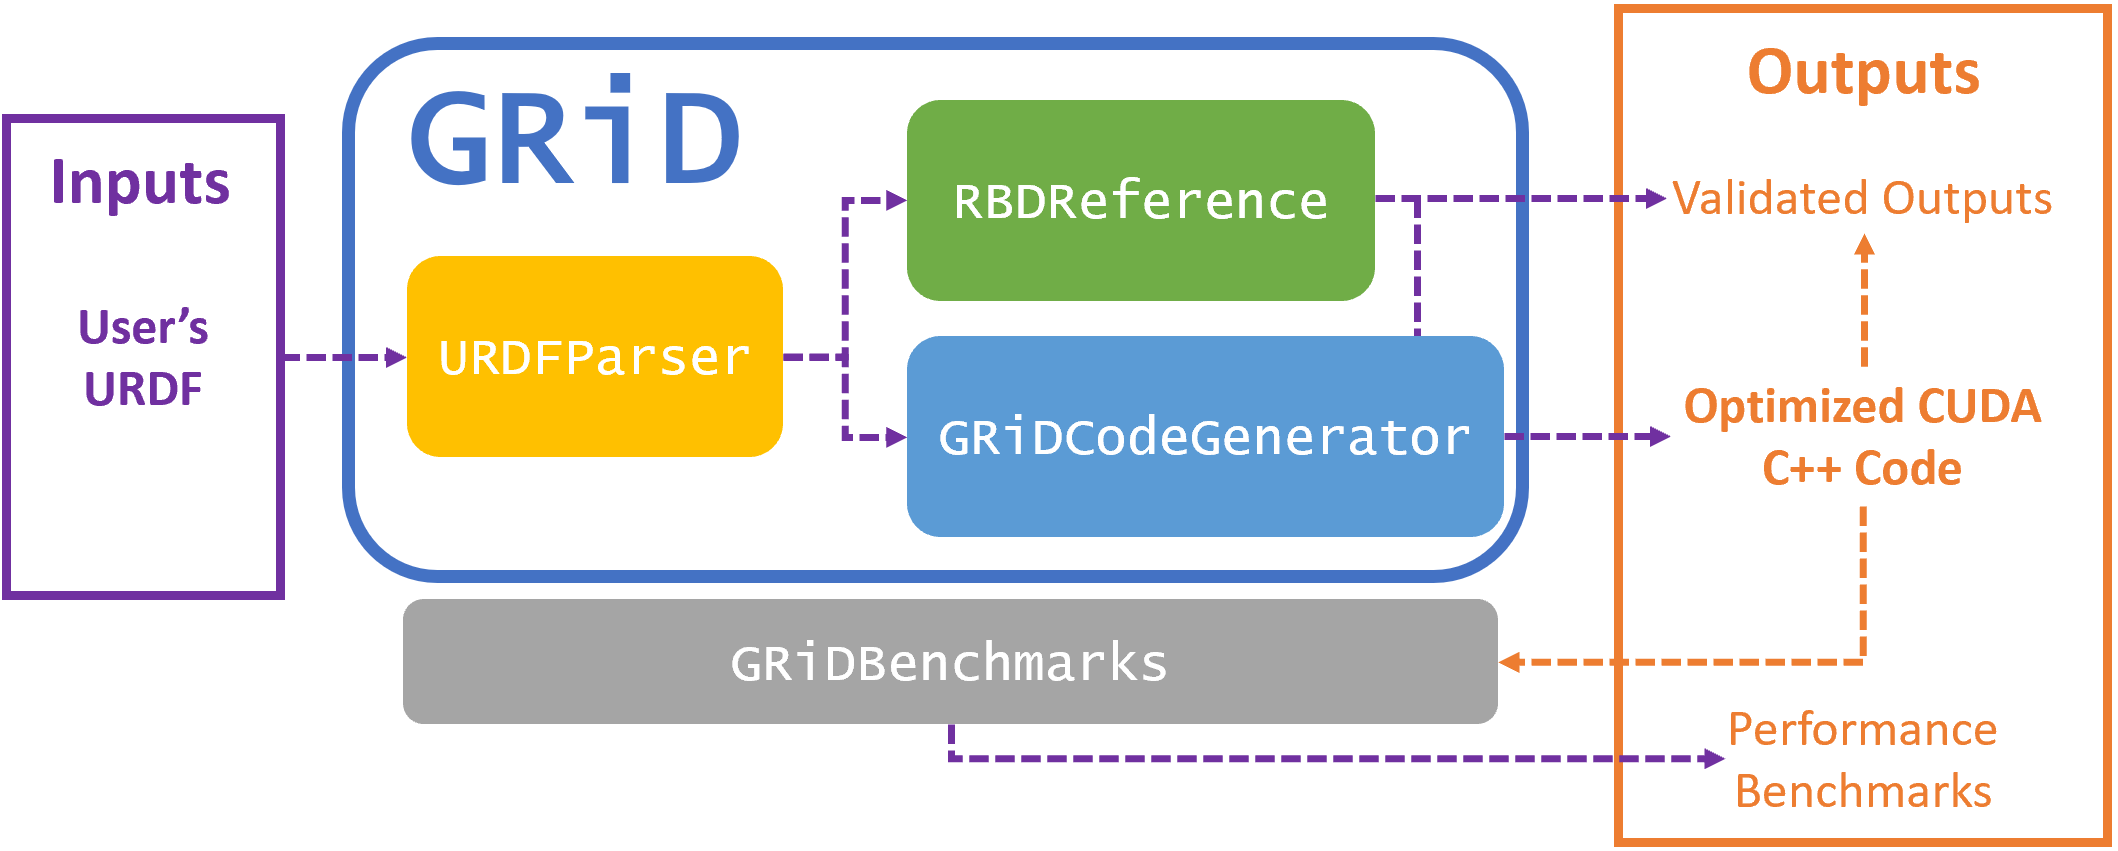
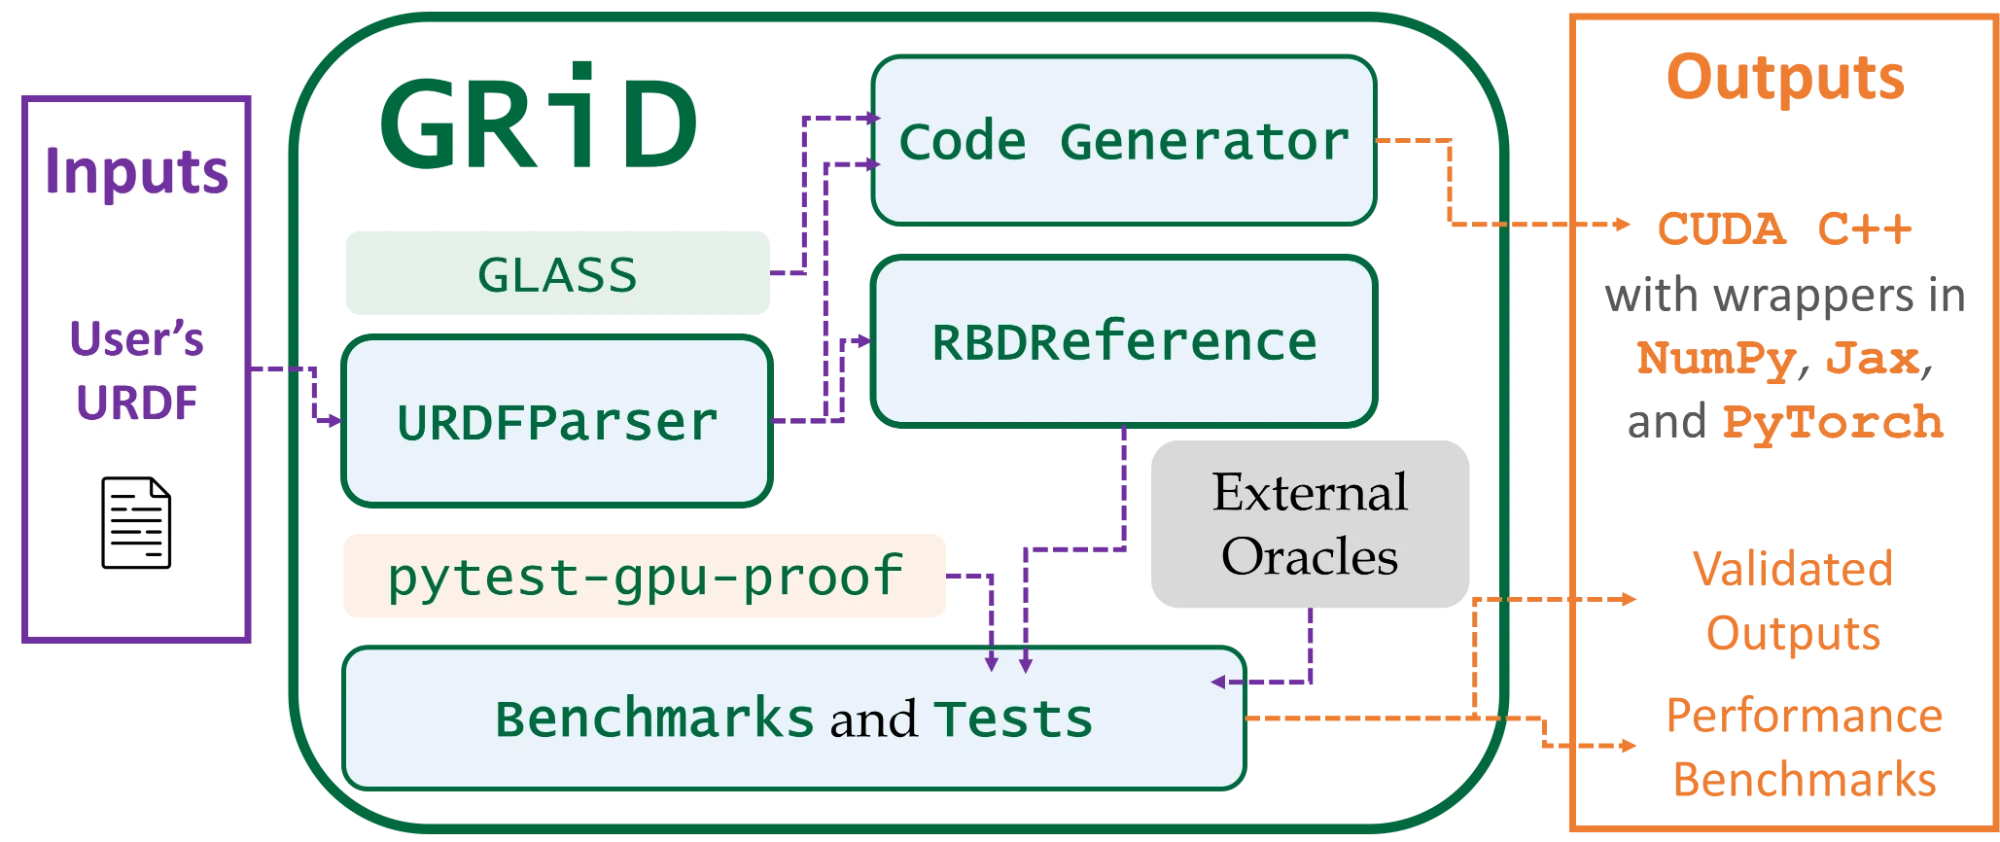
README: new ecosystem diagram at the top; Performance section shows the release speedup and timing figures (old benchmark images removed)

diff --git a/test/benchmarks/plot_benchmarks.py b/test/benchmarks/plot_benchmarks.py
@@ -1,6 +1,6 @@
 #!/usr/bin/env python3
 """Benchmark figures for GRiD competitive results — matplotlib, styled after the
-hand-made Excel figure docs/imgs/benchmark_multi_fd_grad.png.
+hand-made Excel figure (formerly docs/imgs/benchmark_multi_fd_grad.png, removed 2026-09-30).
 
 Two figure types:
 

diff --git a/README.md b/README.md
@@ -8,6 +8,8 @@
 
 A GPU-accelerated library for robot dynamics, kinematics, and collisions, with analytical derivatives and Hessians for supported numerical operations.
 
+![The GRiD package ecosystem: a user's URDF goes through URDFParser to the code generator (built on GLASS) and RBDReference, producing CUDA C++ with NumPy, JAX, and PyTorch wrappers; benchmarks and tests, backed by pytest-gpu-proof and external oracles, produce validated outputs and performance benchmarks.](docs/imgs/GRiD.png)
+
 GRiD turns a URDF into optimized, per-robot CUDA C++ for rigid-body dynamics, kinematics, their analytical
 first- and second-order derivatives and a trajectory-optimization plant layer, then hands you that code three
 ways — a numpy handle, a `jax.jit`-able FFI surface, or `torch.autograd`-aware ops — from one content-addressed
@@ -42,8 +44,6 @@ is documented separately.
 **Start-here track:** [`examples/README.md`](examples/README.md) routes the four usage tracks — the [`examples/notebooks/`](examples/notebooks/) Python-bindings tour (01-quickstart → 07-inline-cuda), the runnable [`bindings/examples/`](bindings/examples/) scripts, codegen scripts, and hand-written-CUDA walkthroughs.
 
 **This package contains submodules make sure to run ```git submodule update --init --recursive```** after cloning!
-
-![The GRiD library package ecosystem, showing how a user's URDF file can be transformed into optimized CUDA C++ code which can then be validated against reference outputs and benchmarked for performance.](docs/imgs/GRiD.png)
 
 ## Quick Start
 
@@ -230,14 +230,20 @@ To cite GRiD in your research, please use the following bibtex for our paper ["G
 ```
 
 ## Performance
-Fresh measurements for the rerelease are pending. The [release measurement
-checklist](docs/source/release_measurements.rst) proposes a small first pass over
-dynamics, kinematics, a gradient, a Hessian, and a resident rollout. Collision
-timings and broader comparisons are follow-ups. [Plot-design previews](docs/source/plot_designs.rst)
-use explicitly historical data, not new results. Earlier development reports and
-the original paper are historical evidence, not performance claims for the
-current implementation. The [benchmark harness](test/benchmarks/) is the starting
-point for new collection; no old figure should be relabeled as a new result.
+Measured on one NVIDIA RTX 5090 with an Intel Core Ultra 9 285K for RNEA, its analytical gradient (∇RNEA), and its
+analytical Hessian (∇²RNEA) on iiwa14 (fixed base), go2, and G1 (floating base) at batch sizes 16–1024.
+
+![Speedup heatmaps (baseline time divided by GRiD time) for RNEA, its gradient, and its Hessian on iiwa14, go2, and G1 across batch sizes 16 to 1024, against Pinocchio codegen on the CPU and against MJX and MuJoCo Warp with data resident on the GPU.](docs/imgs/benchmark_speedups.png)
+
+Speedup is baseline time divided by GRiD time (blue: GRiD faster; red: baseline faster), using GRiD's compute-only
+call. The Pinocchio column compares against its code-generated CPU path; the MJX and MuJoCo Warp columns keep data
+resident on the GPU. `*` marks cells where the evaluated baseline path required fp64; `~` marks variable repeats.
+
+![Time per complete batch, log scale, for GRiD's CUDA call with its GPU–CPU I/O and JAX-wrapper overheads stacked on top, next to Pinocchio codegen, the Pinocchio standard API, MuJoCo on the CPU, MuJoCo Warp, and MJX.](docs/imgs/benchmark_timings.png)
+
+Time per complete batch. GRiD's bars stack the GPU–CPU I/O overhead and the JAX wrapper overhead on top of the CUDA
+compute time, so they show what each calling boundary costs. The [release measurements](docs/source/release_measurements.rst)
+page describes the method, and the [benchmark harness](test/benchmarks/) reproduces the collection.
 
 ## Installation
 The Quick Start above covers the common-case install. For CUDA Toolkit
